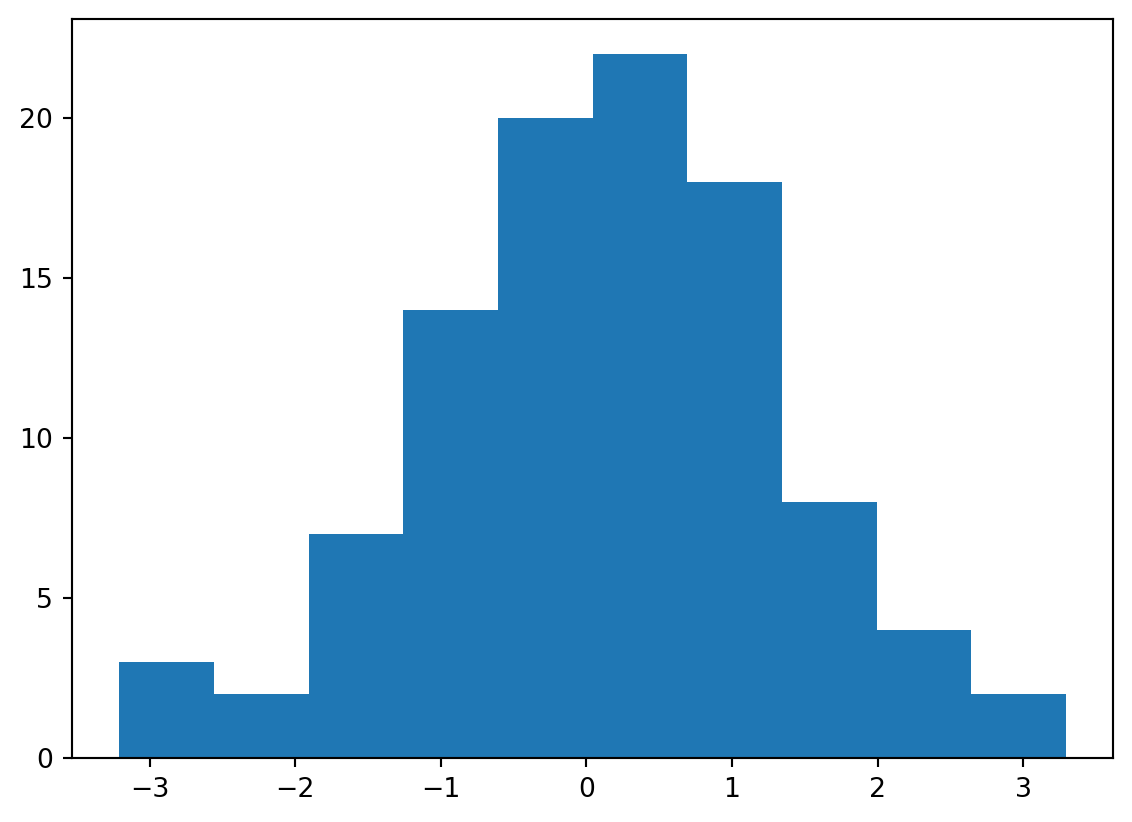
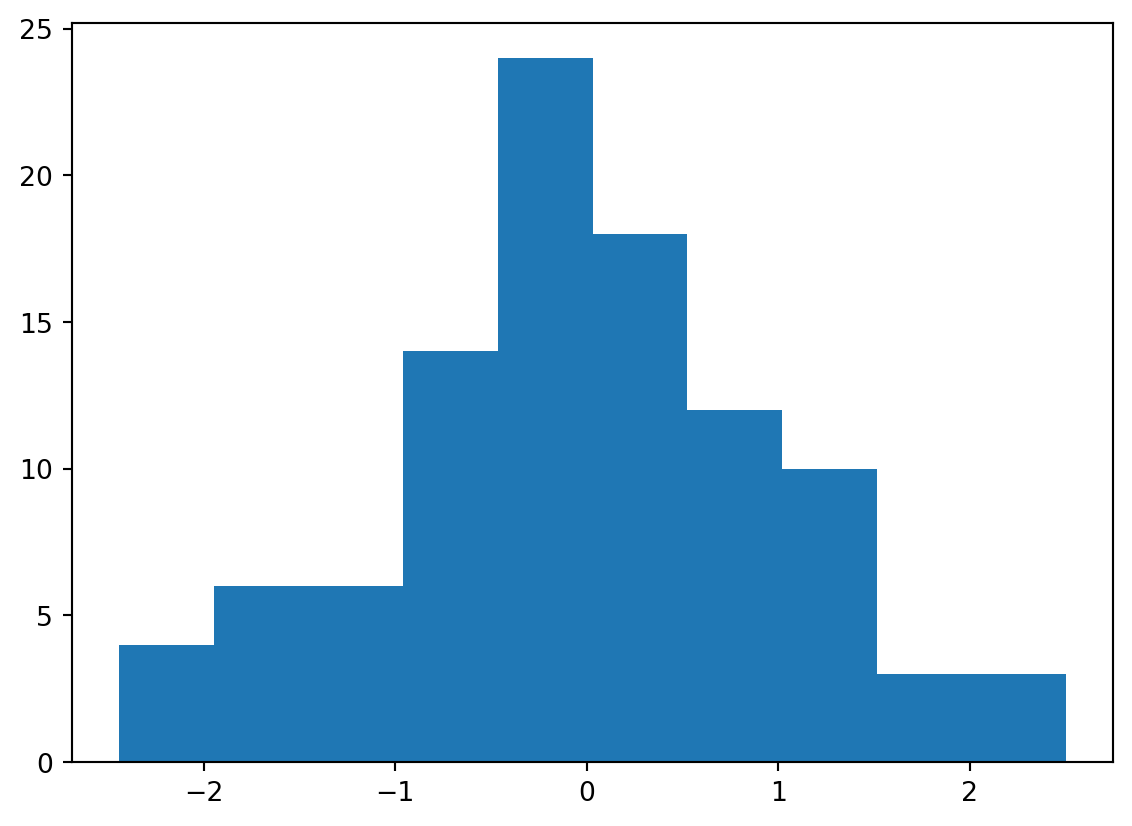
Built site for gh-pages

diff --git a/units/unit1.html b/units/unit1.html
@@ -277,7 +277,7 @@ $$
 <p>This is an example of using qmd as the source document.</p>
 <section id="evaluated-python-code-chunk-with-a-plot" class="level2">
 <h2 class="anchored" data-anchor-id="evaluated-python-code-chunk-with-a-plot">Evaluated Python code chunk, with a plot</h2>
-<div id="bcedaf33" class="cell" data-execution_count="1">
+<div id="60932e1c" class="cell" data-execution_count="1">
 <details open="" class="code-fold">
 <summary>Code</summary>
 <div class="sourceCode cell-code" id="cb1"><pre class="sourceCode python code-with-copy"><code class="sourceCode python"><span id="cb1-1"><a href="#cb1-1" aria-hidden="true" tabindex="-1"></a><span class="im">import</span> numpy <span class="im">as</span> np</span>
@@ -295,7 +295,7 @@ $$
 </div>
 </div>
 <div class="cell-output cell-output-display" data-execution_count="1">
-<pre><code>0.017174936769266142</code></pre>
+<pre><code>0.0819246894156537</code></pre>
 </div>
 </div>
 </section>
@@ -357,7 +357,7 @@ Tip with Title
 </div>
 <div id="tabset-1-2" class="tab-pane" role="tabpanel" aria-labelledby="tabset-1-2-tab">
 <p>This code is executed.</p>
-<div id="7a06b253" class="cell" data-execution_count="2">
+<div id="91e66664" class="cell" data-execution_count="2">
 <details open="" class="code-fold">
 <summary>Code</summary>
 <div class="sourceCode cell-code" id="cb4"><pre class="sourceCode python code-with-copy"><code class="sourceCode python"><span id="cb4-1"><a href="#cb4-1" aria-hidden="true" tabindex="-1"></a><span class="kw">def</span> fizz_buzz(num):</span>

diff --git a/units/unit3.html b/units/unit3.html
@@ -274,7 +274,7 @@ $$
 <p>This is an example of using qmd as the source document with pdf as one target. I’ve taken out the qmd stuff that doesn’t seem to render to pdf.</p>
 <section id="evaluated-python-code-chunk-with-a-plot" class="level2">
 <h2 class="anchored" data-anchor-id="evaluated-python-code-chunk-with-a-plot">Evaluated Python code chunk, with a plot</h2>
-<div id="9099834a" class="cell" data-execution_count="1">
+<div id="a167b858" class="cell" data-execution_count="1">
 <details open="" class="code-fold">
 <summary>Code</summary>
 <div class="sourceCode cell-code" id="cb1"><pre class="sourceCode python code-with-copy"><code class="sourceCode python"><span id="cb1-1"><a href="#cb1-1" aria-hidden="true" tabindex="-1"></a><span class="im">import</span> numpy <span class="im">as</span> np</span>
@@ -287,12 +287,12 @@ $$
 <div class="cell-output cell-output-display">
 <div>
 <figure class="figure">
-<p><img src="unit3_files/figure-html/cell-2-output-1.png" width="566" height="411" class="figure-img"></p>
+<p><img src="unit3_files/figure-html/cell-2-output-1.png" width="566" height="413" class="figure-img"></p>
 </figure>
 </div>
 </div>
 <div class="cell-output cell-output-display" data-execution_count="1">
-<pre><code>0.12568267192064922</code></pre>
+<pre><code>-0.03689231187477292</code></pre>
 </div>
 </div>
 </section>

diff --git a/license.html b/license.html
@@ -71,14 +71,16 @@ ul.task-list li input[type="checkbox"] {
 <link rel="stylesheet" href="assets/styles.css">
 </head>
 
-<body class="fullcontent">
+<body>
 
 <div id="quarto-search-results"></div>
 <!-- content -->
 <div id="quarto-content" class="quarto-container page-columns page-rows-contents page-layout-article">
 <!-- sidebar -->
 <!-- margin-sidebar -->
-    
+    <div id="quarto-margin-sidebar" class="sidebar margin-sidebar zindex-bottom">
+        
+    </div>
 <!-- main -->
 <main class="content" id="quarto-document-content">
 
